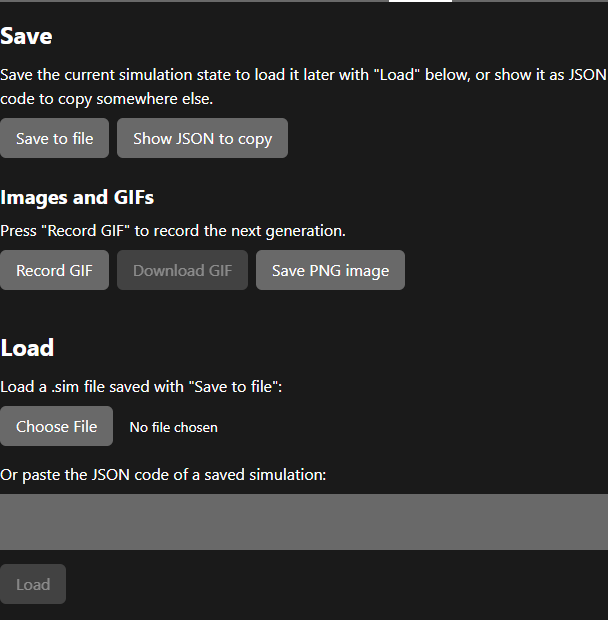
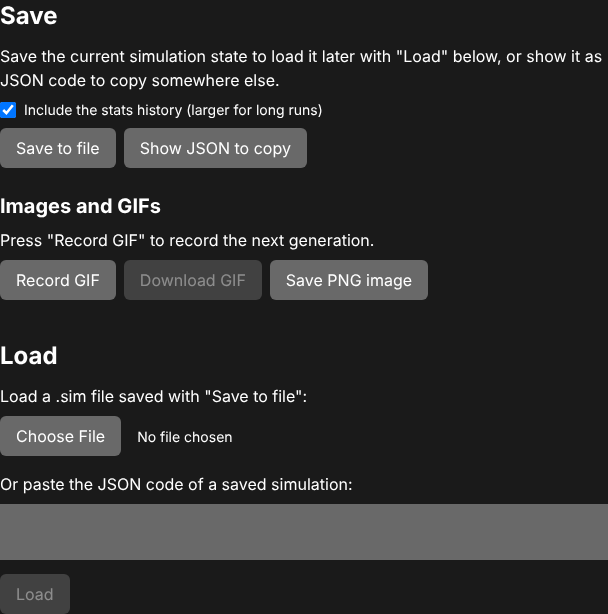
Make the stats history optional in Save to file
Add an "Include the stats history" checkbox, on by default, to Save to
file and Show JSON to copy.

Also fix the history on load: a file without stats kept the previous
run's history, and Update simulation after loading a file set the
history back to the one in the file.

Claude-Session: https://claude.ai/code/session_01LJnfEbV9i9MC23XjiNBkxT

diff --git a/components/simulation/tabs/save/SavePanel.tsx b/components/simulation/tabs/save/SavePanel.tsx
@@ -3,6 +3,8 @@
 import Button from "@/components/global/Button";
 import { simulationDataAtom, worldControllerAtom } from "../../store";
 import { useAtomValue } from "jotai";
+import CheckboxInput from "@/components/global/inputs/CheckboxInput";
+import type WorldController from "@/simulation/world/WorldController";
 import CopyToClipboardTextarea from "@/components/global/inputs/CopyToClipboardTextarea";
 import { useState } from "react";
 import { saveAs } from "file-saver";
@@ -14,28 +16,22 @@ export default function SavePanel() {
   const simulationData = useAtomValue(simulationDataAtom);
   const worldController = useAtomValue(worldControllerAtom);
   const [dataSavedWorld, setDataSavedWorld] = useState("");
+  const [includeStats, setIncludeStats] = useState(true);
+
+  const toJson = (worldController: WorldController, prettify: boolean) => {
+    const savedWorld : SavedSimulationData = serializeSimulationData(worldController, includeStats);
+    return prettify ? JSON.stringify(savedWorld, null, 2) : JSON.stringify(savedWorld);
+  };
 
   const handleSave = () => {
     if (worldController) {
-      const savedWorld : SavedSimulationData = serializeSimulationData(worldController);
-      if (simulationData.constants.PRETTIFY_OUTPUT_TO_COPY) {
-        var jsonSavedWorld = JSON.stringify(savedWorld, null, 2);  // spacing level = 1
-      } else {
-        var jsonSavedWorld = JSON.stringify(savedWorld);
-      }
-      setDataSavedWorld(jsonSavedWorld);
+      setDataSavedWorld(toJson(worldController, simulationData.constants.PRETTIFY_OUTPUT_TO_COPY));
     }
   };
 
-
   const handleSaveToFile = () => {
     if (worldController) {
-      const savedWorld : SavedSimulationData = serializeSimulationData(worldController);
-      if (simulationData.constants.PRETTIFY_OUTPUT_TO_FILE) {
-        var jsonSavedWorld = JSON.stringify(savedWorld, null, 2);  // spacing level = 1
-      } else {
-        var jsonSavedWorld = JSON.stringify(savedWorld);
-      }
+      const jsonSavedWorld = toJson(worldController, simulationData.constants.PRETTIFY_OUTPUT_TO_FILE);
       setDataSavedWorld(jsonSavedWorld);
 
       const blob = new Blob ([jsonSavedWorld]  , { type: 'text/plain;charset=utf-8'})
@@ -50,6 +46,12 @@ export default function SavePanel() {
           Save the current simulation state to load it later with &quot;Load&quot; below,
           or show it as JSON code to copy somewhere else.
         </p>
+        <CheckboxInput
+          id="save-include-stats"
+          checked={includeStats}
+          onChange={setIncludeStats}
+          label="Include the stats history (larger for long runs)"
+        />
         <div className="flex flex-wrap gap-2">
           <Button onClick={handleSaveToFile}>Save to file</Button>
           <Button onClick={handleSave}>Show JSON to copy</Button>

diff --git a/simulation/serialization/formatters/simulationDataSerialization.ts b/simulation/serialization/formatters/simulationDataSerialization.ts
@@ -47,7 +47,8 @@ export default function deserializeSimulationData(worldController: WorldControll
 }
     
 
-export function serializeSimulationData(worldController: WorldController) : SavedSimulationData {
+// includeStats: false leaves out the stats history, which is most of the size of a long run
+export function serializeSimulationData(worldController: WorldController, includeStats: boolean = true) : SavedSimulationData {
   const sim = worldController.simData;  
   const serializedSimulationData : SavedSimulationData = {
         constants : sim.constants, // JSON.stringify(sim.constants),
@@ -56,7 +57,7 @@ export function serializeSimulationData(worldController: WorldController) : Save
         waterData : deserializeWaterData(sim.waterData),
         worldObjects : serializeObjects(sim.worldObjects),
         species: serializeSpecies(worldController),
-        stats: generationRegistryFormatter.serialize(worldController.generationRegistry)
+        ...(includeStats ? { stats: generationRegistryFormatter.serialize(worldController.generationRegistry) } : {}),
        
       // export function deserializeObjects
       //    worldObjects: [...deserializeObjects(parsed.worldControllerData.worldObjects)],
@@ -66,7 +67,7 @@ export function serializeSimulationData(worldController: WorldController) : Save
 
 // settings and map only: loading it starts a new run from generation 1
 export function serializeSetup(worldController: WorldController) : SavedSimulationData {
-  const { species, stats, ...setup } = serializeSimulationData(worldController);
+  const { species, ...setup } = serializeSimulationData(worldController, false);
   return {
     ...setup,
     worldControllerData: { ...setup.worldControllerData, currentGen: 1, currentStep: 1, lastGenerationDuration: 0, totalTime: 0 },
@@ -79,11 +80,10 @@ export function serializeSetup(worldController: WorldController) : SavedSimulati
  * most of the size of a long run.
  */
 export function serializeGenerationStart(worldController: WorldController, includeStats: boolean) : SavedSimulationData {
-  const { species, stats, ...setup } = serializeSimulationData(worldController);
+  const { species, ...setup } = serializeSimulationData(worldController, includeStats);
   return {
     ...setup,
     worldControllerData: { ...setup.worldControllerData, currentStep: 1 },
-    ...(includeStats ? { stats } : {}),
     startGenomes: serializeStartGenomes(worldController.generations.startGenomes),
   };
 }

diff --git a/__tests__/userScenarios.test.ts b/__tests__/userScenarios.test.ts
@@ -11,6 +11,7 @@ import {
 import { loadSavedSimulationAndStartRun, loadSavedWorldAndResumeRun } from "@/simulation/world/loadWorld";
 import SelectionMethod from "@/simulation/generations/selection/SelectionMethod";
 import WorldGenerations from "@/simulation/generations/WorldGenerations";
+import worldControllerSimDataHotChange from "@/simulation/world/worldControllerSimDataHotChange";
 
 // every creature survives, so each generation is full
 const everybodySurvives: SelectionMethod = {
@@ -155,5 +156,36 @@ describe("user scenarios", () => {
     const savedPositions = saved.species!.flatMap((s) => s.creatures.map((c) => c.position.join(","))).sort();
     const positions = worldController.generations.currentCreatures.map((c) => c.position.join(",")).sort();
     expect(savedPositions).toEqual(positions);
+  });
+
+  test("Save to file can leave out the stats history", async () => {
+    await endGeneration(worldController);
+    expect(serializeSimulationData(worldController).stats!.generations).toHaveLength(1);
+    expect(serializeSimulationData(worldController, false).stats).toBeUndefined();
+  });
+
+  test("loading a file without stats starts an empty history, not the previous run's", async () => {
+    await endGeneration(worldController);
+    const json = JSON.stringify(serializeSimulationData(worldController, false));
+    await endGeneration(worldController);
+    expect(worldController.generationRegistry.generations).toHaveLength(2);
+
+    loadSavedWorldAndResumeRun(worldController, json);
+    worldController.pause();
+
+    expect(worldController.currentGen).toBe(2);
+    expect(worldController.generationRegistry.generations).toEqual([]);
+  });
+
+  test("Update simulation after loading a file keeps the history recorded since the load", async () => {
+    const draft = loadSavedWorldAndResumeRun(worldController, JSON.stringify(serializeSimulationData(worldController)));
+    worldController.pause();
+    await endGeneration(worldController);
+    await endGeneration(worldController);
+
+    worldControllerSimDataHotChange(worldController, draft);
+    worldController.pause();
+
+    expect(worldController.generationRegistry.generations.map((g) => g.generation)).toEqual([1, 2]);
   });
 });

diff --git a/simulation/world/WorldController.ts b/simulation/world/WorldController.ts
@@ -174,8 +174,13 @@ export default class WorldController {
       this.generations.restoreCreature(creature);
     }
     this.generations.startGenomes = startGenomes;
-    if (sim.stats !== undefined) {
-      this.generationRegistry.copyExceptWorldController(sim.stats);
+    // a hot change keeps the history of the running simulation; sim.stats is the one from load time.
+    // A file without stats starts an empty history.
+    if (!creatures) {
+      this.generationRegistry = new GenerationRegistry(this);
+      if (sim.stats !== undefined) {
+        this.generationRegistry.copyExceptWorldController(sim.stats);
+      }
     }
     this.eventLogger.reset();
     this.initialPopulation = sim.worldGenerationsData.initialPopulation;

diff --git a/docs/development/serialization.md b/docs/development/serialization.md
@@ -46,6 +46,7 @@ Notes:
 - **Strategies and methods** are saved by their `name`, and loading looks the name up in `populationMap` / `selectionMap`. An unknown name falls back to *Asexual Random* or *Inside Reproduction Area*, with a console warning.
 - **Map objects** are saved by class name. Each type needs an entry in `objectFormatters` in [objectsSerialization.ts](../../simulation/serialization/formatters/objectsSerialization.ts): `RectangleObject`, `EllipseObject`, the reproduction and health areas in both shapes, and `RectangleSpawnArea`.
 - **Creatures** are grouped by species, because creatures of a species share a genome. Only position, movement and mass are saved for each creature. Ids, age, health and `distanceCovered` are not saved: they restart when the file is loaded.
+- `stats` is left out when **Include the stats history** is unchecked (`serializeSimulationData(worldController, false)`).
 - The run state in `worldControllerData` (`simCode`, `currentGen`, `currentStep`, times and speed) is read from the controller when saving, so a file records where the run is now.
 - `constants` is copied as is, so a file keeps its own `LOG_*`, `DETECT_RADIUS` and other constants.
 - Indentation is controlled by `PRETTIFY_OUTPUT_TO_FILE` and `PRETTIFY_OUTPUT_TO_COPY`.
@@ -61,7 +62,7 @@ Notes:
 
 `loadSavedWorldAndResumeRun` checks for `startGenomes` first: a file that has them calls `startGeneration()` instead of `resumeRun()` (see below).
 
-`species`, `stats` and `startGenomes` are optional. A hand-written scenario that starts from scratch can leave them out.
+`species`, `stats` and `startGenomes` are optional. A hand-written scenario that starts from scratch can leave them out. A file without `stats` starts an empty history; it does not keep the history of the run that was running before.
 
 When a run resumes, every saved creature is rebuilt for the new world (see [Architecture](architecture.md#ui--engine-applying-settings)). A creature whose cell is outside the world, an obstacle or already taken is dropped.
 

diff --git a/docs/development/architecture.md b/docs/development/architecture.md
@@ -99,6 +99,8 @@ The map editor's **Use Map** does the same as Update simulation: it writes the o
 
 `resumeRun(sim, creatures?)` takes its creatures from the `creatures` argument when one is given, and from `sim.species` otherwise. The hot change passes `worldController.generations.currentCreatures`, the creatures alive right now. Loading a file passes nothing, so the saved species are used.
 
+The stats history follows the same rule. A hot change keeps the history of the running simulation, because `sim.stats` in the draft is the history from load time. Loading a file replaces it with the file's `stats`, or with an empty history.
+
 In both cases each creature is **rebuilt** with `WorldGenerations.restoreCreature()`. The rebuilt creature belongs to the new `WorldGenerations`, so it uses the new grid and the new sensor and action configuration. It keeps the genome, position, mass and counters of the original. Creatures that fall outside the new world, or on a cell that is now solid or taken, are dropped.
 
 Do not put the old `Creature` objects back on the new grid. They still point to the old `WorldGenerations`: they would move on the old grid and read the old settings.

diff --git a/docs/known-issues.md b/docs/known-issues.md
@@ -59,6 +59,8 @@ Checked against the code in October 2026. Each item links to the page that expla
 These items were on the old list, or found while writing these docs, and are now fixed:
 
 - Saving a simulation without its creatures: **My scenarios** in the Files tab saves the setup, or the genomes at the start of a generation.
+- **Update simulation** after loading a file set the stats history back to the one in the file. Loading a file without stats kept the history of the previous run.
+- **Save to file** can leave out the stats history.
 - **Save to file** wrote the generation, step and simulation code from load time instead of the current ones. It also saved each creature's position from the previous step, and loading ignored the saved mass.
 - **Update simulation** and **Use Map** keep the running creatures. They used to lose them, or put back the population from load time. Creatures restored from a file now use the new grid and settings.
 - Selected creature information in the Population tab

diff --git a/docs/user/files.md b/docs/user/files.md
@@ -21,6 +21,7 @@ Scenarios are stored in the browser's IndexedDB. They are lost if you clear the 
 
 - **Save to file** downloads the whole simulation as `sim <code> generation <n>.sim`: settings, map, creatures, species and stats.
 - **Show JSON to copy** shows the same content as text, so you can paste it into a message or an issue.
+- **Include the stats history** (on by default) adds the fitness history of every generation. In a long run it is most of the file. Without it the file is much smaller, and the Stats charts start empty when you load it.
 
 A saved file is plain JSON. You can open it in a text editor to change values that are not in the UI, such as the metabolism constants (see [parameters](../reference/parameters.md#not-in-the-ui)).
 
